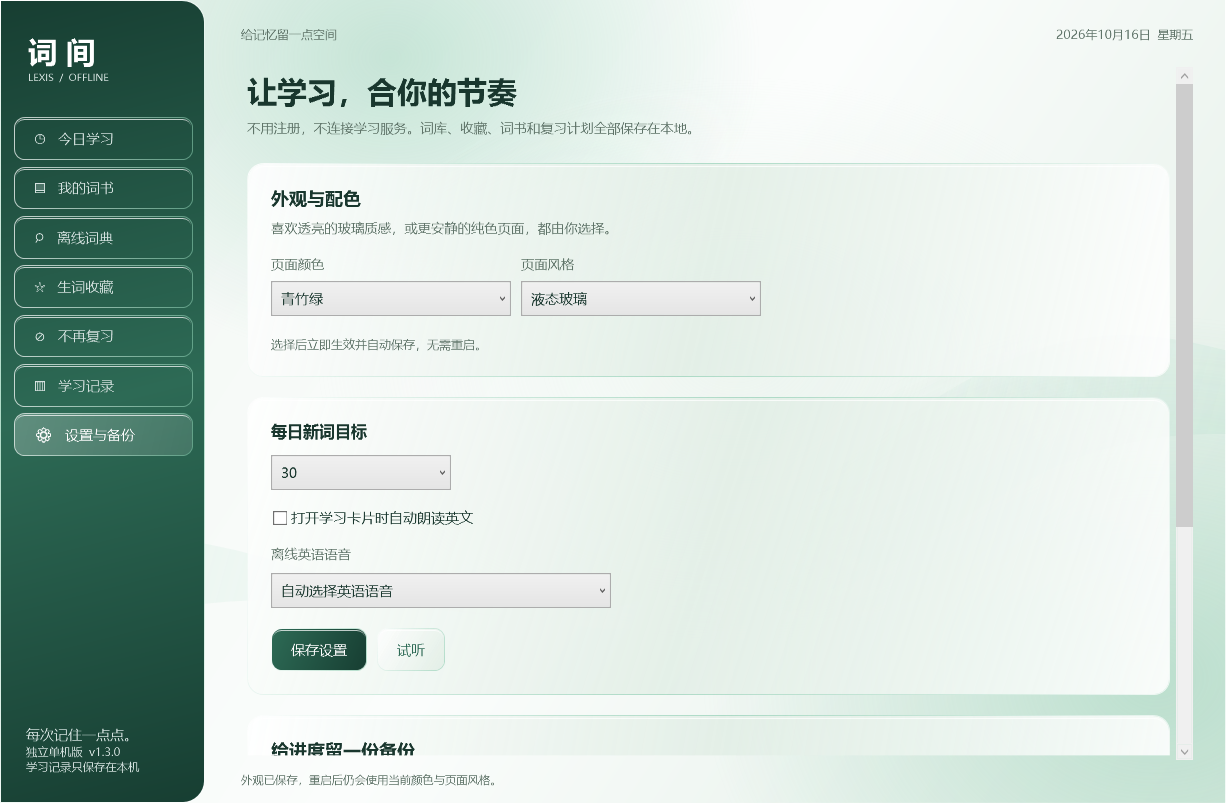
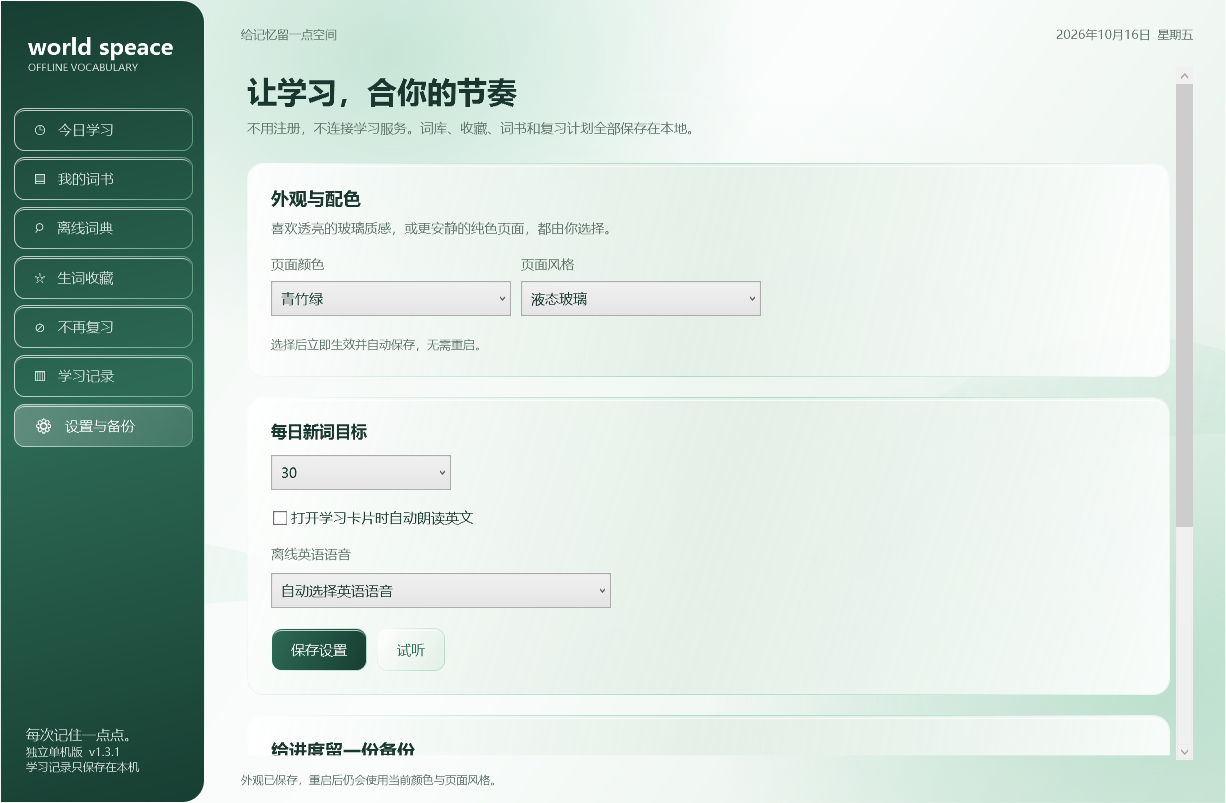
Rename project to world speace (v1.3.1)

Changed region(s): [[0.0, 0.1245, 0.155, 0.5915], [0.0, 0.0311, 0.155, 0.0934]]

diff --git a/src/Main.cs b/src/Main.cs
@@ -38,7 +38,7 @@ namespace LexisDesk {
         int cardSequence;
         public bool ThrowOnError;
         public MainWindow(Store store) {
-            Store=store;Title="词间 · 单机词汇学习";Icon=AppAssets.Icon;Width=1240;Height=840;MinWidth=1040;MinHeight=720;
+            Store=store;Title="world speace · 单机词汇学习";Icon=AppAssets.Icon;Width=1240;Height=840;MinWidth=1040;MinHeight=720;
             WindowStartupLocation=WindowStartupLocation.CenterScreen;
             FontFamily=new FontFamily("Microsoft YaHei UI, Segoe UI");FontSize=14;
             UseLayoutRounding=true;SnapsToDevicePixels=true;
@@ -97,9 +97,9 @@ namespace LexisDesk {
             var backdrop=new PageGlassBackdrop();Grid.SetColumnSpan(backdrop,2);shell.Children.Add(backdrop);
             var sidebar=new Grid();sidebar.RowDefinitions.Add(new RowDefinition{Height=GridLength.Auto});sidebar.RowDefinitions.Add(new RowDefinition());sidebar.RowDefinitions.Add(new RowDefinition{Height=GridLength.Auto});
             var sidebarSurface=new Border{CornerRadius=new CornerRadius(0,22,22,0)};Paint(sidebarSurface,Border.BackgroundProperty,"SidebarFill");Paint(sidebarSurface,Border.BorderBrushProperty,"CardEdge");sidebarSurface.SetResourceReference(Border.BorderThicknessProperty,"CardStroke");Grid.SetRowSpan(sidebarSurface,3);sidebar.Children.Add(sidebarSurface);
-            var brand=Stack(Text("词 间",29,"OnAccent",true),Text("LEXIS  /  OFFLINE",10,"NavMuted"));brand.Margin=new Thickness(28,32,20,34);sidebar.Children.Add(brand);
+            var brand=Stack(Text("world speace",22,"OnAccent",true),Text("OFFLINE VOCABULARY",10,"NavMuted"));brand.Margin=new Thickness(28,32,20,34);sidebar.Children.Add(brand);
             nav=new StackPanel{Margin=new Thickness(14,0,12,0)};Grid.SetRow(nav,1);sidebar.Children.Add(nav);
-            var foot=Stack(Text("每次记住一点点。",14,"NavMuted"),Text("独立单机版  v1.3.0\n学习记录只保存在本机",11,"NavMuted"));foot.Margin=new Thickness(26,24,16,28);Grid.SetRow(foot,2);sidebar.Children.Add(foot);
+            var foot=Stack(Text("每次记住一点点。",14,"NavMuted"),Text("独立单机版  v1.3.1\n学习记录只保存在本机",11,"NavMuted"));foot.Margin=new Thickness(26,24,16,28);Grid.SetRow(foot,2);sidebar.Children.Add(foot);
             shell.Children.Add(sidebar);
             var main=new Grid{Margin=new Thickness(36,27,32,15)};main.RowDefinitions.Add(new RowDefinition{Height=GridLength.Auto});main.RowDefinitions.Add(new RowDefinition());main.RowDefinitions.Add(new RowDefinition{Height=GridLength.Auto});
             var top=new DockPanel{Margin=Gap(0,24)};var date=Text(DateTime.Now.ToString("yyyy年M月d日  dddd",new CultureInfo("zh-CN")),12,"Muted");DockPanel.SetDock(date,Dock.Right);top.Children.Add(date);top.Children.Add(Text("给记忆留一点空间",12,"Muted"));main.Children.Add(top);
@@ -266,7 +266,7 @@ namespace LexisDesk {
             var prefs=Stack(Text("每日新词目标",16,null,true),WithMargin(target,14,0),auto,Text("离线英语语音",13,"Muted"),WithMargin(voice,10,20));prefs.Children.Add(Row(Button("保存设置",()=>{Store.Data.DailyTarget=(int)target.SelectedItem;Store.Data.AutoSpeak=auto.IsChecked==true;Store.Data.Voice=voice.SelectedIndex>0?(string)voice.SelectedItem:null;Store.Save();status.Text="设置已保存。";},true),Button("试听",()=>{Store.Data.Voice=voice.SelectedIndex>0?(string)voice.SelectedItem:null;Speak("A little progress every day.");})));p.Children.Add(Card(prefs));
             var backup=Stack(Text("给进度留一份备份",18,null,true),WithMargin(Text("导出的 JSON 包含学习记录、收藏、设置和自制词书。恢复会替换当前数据，软件会先保留恢复前的副本。",13,"Muted"),10,20),Row(Button("导出完整备份",Backup,true),Button("恢复备份",Restore)));var backupCard=Card(backup);backupCard.Margin=Gap(20,20);p.Children.Add(backupCard);
             p.Children.Add(Text("数据文件夹",12,"Muted"));p.Children.Add(WithMargin(new TextBox{Text=Store.DirectoryPath,IsReadOnly=true,FontSize=12},8,18));
-            p.Children.Add(Text("关于这个版本",16,null,true));p.Children.Add(WithMargin(Text("词间 1.3.0 · 根据单机学习需求独立制作，并非不背单词官方客户端。\n内置词库：ECDICT（MIT 许可）。不包含原应用账号、云端学习记录、影视原声和付费词典。\n内置词条提供释义与词形；双语例句可随自制词书导入。发音使用 Windows 本地英语语音。\n词表来源、筛选规则和许可证随发行包提供。",12,"Muted"),10,18));body.Content=Scroll(p);
+            p.Children.Add(Text("关于这个版本",16,null,true));p.Children.Add(WithMargin(Text("world speace 1.3.1 · 根据单机学习需求独立制作，并非不背单词官方客户端。\n内置词库：ECDICT（MIT 许可）。不包含原应用账号、云端学习记录、影视原声和付费词典。\n内置词条提供释义与词形；双语例句可随自制词书导入。发音使用 Windows 本地英语语音。\n词表来源、筛选规则和许可证随发行包提供。",12,"Muted"),10,18));body.Content=Scroll(p);
         }
         public void RefreshAppearance(){Appearance.Apply(Resources,Store.Data);}
         UIElement AppearanceOptions() {
@@ -283,8 +283,8 @@ namespace LexisDesk {
             palette.SelectionChanged+=delegate{apply();};style.SelectionChanged+=delegate{apply();};
             var card=Card(Stack(Text("外观与配色",18,null,true),WithMargin(Text("喜欢透亮的玻璃质感，或更安静的纯色页面，都由你选择。",13,"Muted"),9,0),choices,Text("选择后立即生效并自动保存，无需重启。",12,"Muted")));card.Margin=Gap(0,20);return card;
         }
-        void Backup(){var d=new SaveFileDialog{FileName="词间备份-"+DateTime.Now.ToString("yyyyMMdd")+".json",Filter="JSON 备份|*.json"};if(d.ShowDialog(this)==true){JsonIO.Write(d.FileName,Store.Data);status.Text="完整备份已导出。";}}
-        void Restore(){var d=new OpenFileDialog{Filter="JSON 备份|*.json",Title="选择词间备份"};if(d.ShowDialog(this)!=true)return;Store.Validate(JsonIO.Read<UserData>(d.FileName));if(MessageBox.Show(this,"将用备份替换当前学习记录、收藏和自制词书。恢复前的记录会自动另存副本。继续吗？","恢复学习记录",MessageBoxButton.YesNo,MessageBoxImage.Question)!=MessageBoxResult.Yes)return;Store.Restore(d.FileName);RefreshAppearance();ShowSettings();status.Text="备份已恢复。";}
+        void Backup(){var d=new SaveFileDialog{FileName="world speace 备份-"+DateTime.Now.ToString("yyyyMMdd")+".json",Filter="JSON 备份|*.json"};if(d.ShowDialog(this)==true){JsonIO.Write(d.FileName,Store.Data);status.Text="完整备份已导出。";}}
+        void Restore(){var d=new OpenFileDialog{Filter="JSON 备份|*.json",Title="选择world speace备份"};if(d.ShowDialog(this)!=true)return;Store.Validate(JsonIO.Read<UserData>(d.FileName));if(MessageBox.Show(this,"将用备份替换当前学习记录、收藏和自制词书。恢复前的记录会自动另存副本。继续吗？","恢复学习记录",MessageBoxButton.YesNo,MessageBoxImage.Question)!=MessageBoxResult.Yes)return;Store.Restore(d.FileName);RefreshAppearance();ShowSettings();status.Text="备份已恢复。";}
         public void RenderTo(string path){UpdateLayout();if(Motion.Enabled)Motion.Pump(365);var element=(FrameworkElement)Content;int width=Math.Max(1,(int)Math.Ceiling(element.ActualWidth)),height=Math.Max(1,(int)Math.Ceiling(element.ActualHeight));var image=new RenderTargetBitmap(width,height,96,96,PixelFormats.Pbgra32);image.Render(element);var png=new PngBitmapEncoder();png.Frames.Add(BitmapFrame.Create(image));using(var f=File.Create(path))png.Save(f);}
         public void TestSpelling(string answer){spellBox.Text=answer;CheckSpelling();}
     }
@@ -307,20 +307,20 @@ namespace LexisDesk {
                 if(args.Contains("--motion-tests")){MotionTests.Run(root,app);return 0;}
                 if(args.Contains("--appearance-tests")){AppearanceTests.Run(root,app);return 0;}
                 bool created;using(var mutex=new System.Threading.Mutex(true,"Local\\LexisDesk_"+StableHash(data),out created)){
-                    if(!created){trace("same data directory is already open");if(startupProbe)return 2;MessageBox.Show("这个数据文件夹已有词间正在运行，请使用已打开的窗口。","词间");return 0;}
+                    if(!created){trace("same data directory is already open");if(startupProbe)return 2;MessageBox.Show("这个数据文件夹已有 world speace 正在运行，请使用已打开的窗口。","world speace");return 0;}
                     MainWindow window=null;var splash=new SplashWindow();app.ShutdownMode=ShutdownMode.OnExplicitShutdown;
                     if(startupProbe)splash.ProgressReported+=value=>trace("progress "+value.ToString("0"));
-                    app.DispatcherUnhandledException+=delegate(object s,DispatcherUnhandledExceptionEventArgs e){var active=app.MainWindow as MainWindow??window;if(active!=null)active.HandleError(e.Exception);else MessageBox.Show(e.Exception.Message,"词间无法启动");e.Handled=true;};
+                    app.DispatcherUnhandledException+=delegate(object s,DispatcherUnhandledExceptionEventArgs e){var active=app.MainWindow as MainWindow??window;if(active!=null)active.HandleError(e.Exception);else MessageBox.Show(e.Exception.Message,"world speace无法启动");e.Handled=true;};
                     bool started=false;splash.Loaded+=async delegate {
                         if(started)return;started=true;trace("splash loaded");
                         try{window=await StartupFlow.OpenAsync(app,data,splash);trace("ready: "+window.Title+" visible="+window.IsVisible);if(startupProbe){await System.Threading.Tasks.Task.Delay(400);window.RenderTo(Path.Combine(root,"startup-probe.png"));app.Shutdown();}}
                         catch(OperationCanceledException){app.Shutdown();}
-                        catch(Exception error){trace(error.ToString());if(!startupProbe)MessageBox.Show(error.Message,"词间无法启动",MessageBoxButton.OK,MessageBoxImage.Error);app.Shutdown(1);}
+                        catch(Exception error){trace(error.ToString());if(!startupProbe)MessageBox.Show(error.Message,"world speace无法启动",MessageBoxButton.OK,MessageBoxImage.Error);app.Shutdown(1);}
                     };
                     splash.Closed+=delegate{if(app.MainWindow==splash)app.Shutdown();};
                     int exit=app.Run(splash);mutex.ReleaseMutex();return exit;
                 }
-            }catch(Exception e){if(args.Contains("--self-test")||args.Contains("--render-tests")||args.Contains("--navigation-tests")||args.Contains("--exclusion-tests")||args.Contains("--motion-tests")||args.Contains("--startup-probe")||args.Contains("--appearance-tests")){File.WriteAllText(Path.Combine(AppDomain.CurrentDomain.BaseDirectory,"test-error.txt"),e.ToString());return 1;}MessageBox.Show(e.Message,"词间无法启动",MessageBoxButton.OK,MessageBoxImage.Error);return 1;}
+            }catch(Exception e){if(args.Contains("--self-test")||args.Contains("--render-tests")||args.Contains("--navigation-tests")||args.Contains("--exclusion-tests")||args.Contains("--motion-tests")||args.Contains("--startup-probe")||args.Contains("--appearance-tests")){File.WriteAllText(Path.Combine(AppDomain.CurrentDomain.BaseDirectory,"test-error.txt"),e.ToString());return 1;}MessageBox.Show(e.Message,"world speace无法启动",MessageBoxButton.OK,MessageBoxImage.Error);return 1;}
         }
         static string StableHash(string s){using(var sha=System.Security.Cryptography.SHA256.Create())return BitConverter.ToString(sha.ComputeHash(Encoding.UTF8.GetBytes(s.ToLowerInvariant()))).Replace("-","").Substring(0,24);}
     }

diff --git a/src/Startup.cs b/src/Startup.cs
@@ -37,18 +37,18 @@ namespace LexisDesk {
         public bool WasClosed {get;private set;}
         public event Action<double> ProgressReported;
         public SplashWindow() {
-            Title="词间 · 正在启动";Icon=AppAssets.Icon;Width=560;Height=480;ResizeMode=ResizeMode.NoResize;WindowStyle=WindowStyle.None;
+            Title="world speace · 正在启动";Icon=AppAssets.Icon;Width=560;Height=480;ResizeMode=ResizeMode.NoResize;WindowStyle=WindowStyle.None;
             AllowsTransparency=true;Background=Brushes.Transparent;WindowStartupLocation=WindowStartupLocation.CenterScreen;ShowInTaskbar=true;
             FontFamily=new FontFamily("Microsoft YaHei UI, Segoe UI");
             UseLayoutRounding=true;SnapsToDevicePixels=true;TextOptions.SetTextFormattingMode(this,TextFormattingMode.Display);
             using(var stream=Assembly.GetExecutingAssembly().GetManifestResourceStream("Theme.xaml"))Resources=(ResourceDictionary)System.Windows.Markup.XamlReader.Load(stream);
             var panel=new Grid{Margin=new Thickness(18)};
             Glass=new LiquidGlassPanel();panel.Children.Add(Glass);
-            var brand=Label("L E X I S  /  O F F L I N E",9,"#496F60",new Thickness(0,25,0,0));brand.VerticalAlignment=VerticalAlignment.Top;panel.Children.Add(brand);
+            var brand=Label("O F F L I N E  /  W O R D S",9,"#496F60",new Thickness(0,25,0,0));brand.VerticalAlignment=VerticalAlignment.Top;panel.Children.Add(brand);
             var content=new StackPanel{VerticalAlignment=VerticalAlignment.Center,HorizontalAlignment=HorizontalAlignment.Center,Width=350,Margin=new Thickness(0,18,0,0)};
             var image=new Image{Source=AppAssets.Icon};
             RenderOptions.SetBitmapScalingMode(image,BitmapScalingMode.HighQuality);icon=image;IconGlass=new GlassIconFrame(image);content.Children.Add(IconGlass);
-            content.Children.Add(Label("词 间",29,"#163B31",new Thickness(0,21,0,7),true));
+            content.Children.Add(Label("world speace",29,"#163B31",new Thickness(0,21,0,7),true));
             content.Children.Add(Label("每次记住一点点。",13,"#4C6A5F",new Thickness(0,0,0,29)));
             progress=new ProgressBar{Minimum=0,Maximum=100,Value=0,Height=10,Width=284,IsIndeterminate=false,Style=(Style)FindResource("GlassProgress")};
             content.Children.Add(progress);

diff --git a/tools/prepare_dictionary.py b/tools/prepare_dictionary.py
@@ -25,7 +25,7 @@ CHINESE = re.compile(r"[\u3400-\u9fff]")
 
 
 def download(url: str, target: pathlib.Path) -> None:
-    request = urllib.request.Request(url, headers={"User-Agent": "LexisOfflineDictionaryBuilder/1.0"})
+    request = urllib.request.Request(url, headers={"User-Agent": "WorldSpeaceDictionaryBuilder/1.0"})
     with urllib.request.urlopen(request, timeout=120) as response, target.open("wb") as output:
         while chunk := response.read(1024 * 1024):
             output.write(chunk)
@@ -54,7 +54,7 @@ def main() -> None:
     DATA.mkdir(parents=True, exist_ok=True)
     CACHE.mkdir(parents=True, exist_ok=True)
     api = "https://api.github.com/repos/skywind3000/ECDICT/commits/master"
-    request = urllib.request.Request(api, headers={"User-Agent": "LexisOfflineDictionaryBuilder/1.0"})
+    request = urllib.request.Request(api, headers={"User-Agent": "WorldSpeaceDictionaryBuilder/1.0"})
     try:
         with urllib.request.urlopen(request, timeout=60) as response:
             commit = json.load(response)["sha"]

diff --git a/src/AssemblyInfo.cs b/src/AssemblyInfo.cs
@@ -1,6 +1,6 @@
 using System.Reflection;
-[assembly: AssemblyTitle("词间 · 单机词汇学习")]
+[assembly: AssemblyTitle("world speace · 单机词汇学习")]
 [assembly: AssemblyDescription("Windows offline vocabulary study, spelling practice and spaced review")]
-[assembly: AssemblyProduct("词间")]
-[assembly: AssemblyVersion("1.3.0.0")]
-[assembly: AssemblyFileVersion("1.3.0.0")]
+[assembly: AssemblyProduct("world speace")]
+[assembly: AssemblyVersion("1.3.1.0")]
+[assembly: AssemblyFileVersion("1.3.1.0")]

diff --git a/README.md b/README.md
@@ -1,12 +1,12 @@
-# 词间 · Windows 单机词汇学习
+# world speace · Windows 单机词汇学习
 
 一个无需账号和安卓模拟器的 Windows 桌面背词程序。词库、学习记录、收藏和复习安排均保存在本机，日常学习无需联网。
 
-当前版本：**v1.3.0**。程序基于 C# / WPF / .NET Framework 4.8 独立实现，并非“不背单词”官方客户端，也不包含原应用的账号、付费词典或影视原声。
+当前版本：**v1.3.1**。程序基于 C# / WPF / .NET Framework 4.8 独立实现，并非“不背单词”官方客户端，也不包含原应用的账号、付费词典或影视原声。
 
 ## 下载与运行
 
-前往 [Releases 下载页面](https://github.com/yhc904444-eng/cijian-windows/releases/latest)，下载 `Cijian_Windows_v1.3.0.zip`，完整解压到有写入权限的文件夹，然后双击 `词间.exe`。
+前往 [Releases 下载页面](https://github.com/yhc904444-eng/world-speace/releases/latest)，下载 `world-speace_Windows_v1.3.1.zip`，完整解压到有写入权限的文件夹，然后双击 `world speace.exe`。
 
 支持安装有 .NET Framework 4.8 的 Windows 10 / 11。运行发行包不需要安装 Python、Node.js、Java 或开发工具。
 
@@ -64,12 +64,12 @@
 .\build.ps1
 ```
 
-程序输出到 `dist/词间.exe`。内置词库与图标已经包含在源码中，普通构建不需要下载数据或安装第三方包。
+程序输出到 `dist/world speace.exe`。内置词库与图标已经包含在源码中，普通构建不需要下载数据或安装第三方包。
 
 开发验证入口：
 
 ```powershell
-$app = Join-Path $PWD 'dist\词间.exe'
+$app = Join-Path $PWD 'dist\world speace.exe'
 Start-Process -FilePath $app -ArgumentList '--self-test' -Wait
 Start-Process -FilePath $app -ArgumentList '--exclusion-tests' -Wait
 Start-Process -FilePath $app -ArgumentList '--navigation-tests' -Wait

diff --git a/CHANGELOG.md b/CHANGELOG.md
@@ -1,5 +1,11 @@
 # 更新记录
 
+## v1.3.1
+
+- 项目统一更名为 world speace，更新启动页、窗口、侧栏、关于信息及程序文件名。
+- GitHub 仓库和发行包使用 world-speace 命名，更新公开下载链接与截图。
+- 保留现有学习、复习、收藏、外观设置与完整备份的兼容性。
+
 ## v1.3.0
 
 - 液态玻璃风格扩展至主界面：侧栏、卡片、按钮、词书和学习页面使用透光边缘与分层背景。
